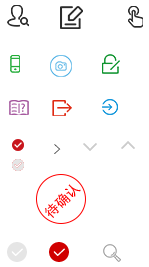
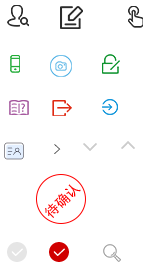
样式问题修改

Changed region(s): [[0.0268, 0.5094, 0.1611, 0.6592]]

diff --git a/public/themes/simpleboot3/user/paper/send.html b/public/themes/simpleboot3/user/paper/send.html
@@ -18,12 +18,12 @@
                 </li>
                 <li class="box-li padding-all">
                     <div class='box-tit'>年化率</div>
-                    <div class='box-con'><span class='drop_down_btn' id='drop_down_btn1'>0%</span>    <input type="hidden" name='annual_rate' value='0%'></div>
+                    <div class='box-con'><span class='drop_down_btn' id='drop_down_btn1'>0%</span> <input type="hidden" name='annual_rate' value='0%'></div>
                 </li>
                 
                 <li class="box-li padding-all">
                     <div class='box-tit'>借款用途：</div>
-                    <div class='box-con'><span class='drop_down_btn' id='drop_down_btn2'>借款用途</span> <input type="hidden" name='usage_loan' value='借款用途'></div>
+                    <div class='box-con'><span class='drop_down_btn' id='drop_down_btn2'>买房</span> <input type="hidden" name='usage_loan' value='借款用途'></div>
                 </li>
                 <li class="box-li padding-all box-li-long">
                     <div class='box-tit'>身份证号(<eq name="send_type" value="1">借款人<else/>出借人</eq>)：</div>
@@ -67,7 +67,7 @@
          <div class="drop_down drop_down2" style="display:none;">
             <p class='drop_down_head'>借款用途 <a class='confirm-btn red'>确定</a></p>
             <div class="drop_down_list">
-                <p class='fixed_li'>借款用途</p>
+                <p class='fixed_li'>买房</p>
                 <ul>
                  <foreach name="$Think.config.use" item="vo">
                     <li>{$vo}</li> 
@@ -100,24 +100,17 @@
         }       
         // 日期插件
         $(function(){
-            
             laydate.render({
                 elem: '#date2',
                 value: GetDateStr(1),
                 istoday: false,
                 min: +1
             });
-         })
+        })
  
-     
-		 //   年利率，借款用途出现的下拉框
-        $('.drop_down_list li').click(function(){
-
-            $('.fixed_li').html($(this).html())
-        }) 
         
-         $('.drop_down_btn').click(function(){
-              var showClass=$(this).attr('id').split('_btn')[0]+$(this).attr('id').split('_btn')[1];
+        $('.drop_down_btn').click(function(){
+            var showClass=$(this).attr('id').split('_btn')[0]+$(this).attr('id').split('_btn')[1];
 
             var showId=$(this).attr('id');
 
@@ -126,16 +119,22 @@
             $('.'+showClass).show();
 
             var _self=$(this);
- 
-            $('.'+showClass).find('.confirm-btn').click(function(){
 
-                var fixed_li=$('.fixed_li').html();  
+            $('.'+ showClass).find('li').click(function(){
+               
+                $('.'+ showClass).find('.fixed_li').html($(this).html())
+            })
+
+            $('.'+ showClass).find('.confirm-btn').click(function(){
+
+                var fixed_li= $('.'+ showClass).find('.fixed_li').html();  
                 $('#'+showId).html(fixed_li); 
                 $('#'+showId).siblings('input[type="hidden"]').val(fixed_li);
 
                 $(this).parents('.drop_down').hide();
             })
-         });
+        });
+
         // 阅读选中
         $('.checkbox-label').click(function(){
           $('#checkbox-label').click();

diff --git a/public/themes/simpleboot3/user/paper/confirm.html b/public/themes/simpleboot3/user/paper/confirm.html
@@ -1,7 +1,7 @@
 <include file="public@head" />
 </head>
 <body>
-    <section class='main'>
+  
         <form action="" id='loan_detail'>
             <ul class='box form-box box-right'>
                 <li class="box-li padding-all">
@@ -29,12 +29,12 @@
                 </li>
                 <li class="box-li padding-all">
                     <div class='box-tit'>年转化率</div>
-                    <div class='box-con'><span class='drop_down_btn'>{$info_paper.rate}%</span> </div>
+                    <div class='box-con'><span class='drop_down_btn annual_rate '>{$info_paper.rate}%</span> </div>
                 </li>
                 
                 <li class="box-li padding-all">
                     <div class='box-tit'>借款用途：</div>
-                    <div class='box-con'><span class='drop_down_btn'>{$info_paper.use}</span>  </div>
+                    <div class='box-con'><span class='drop_down_btn usage_loan'>{$info_paper.use}</span>  </div>
                 </li>
                 <li class="box-li padding-all box-li-long">
                     <div class='box-tit'>借条状态：</div>
@@ -47,11 +47,7 @@
                 
                 <li class="box-li padding-all box-li-long">
                     <div class='box-tit gray'>申请人：</div>
-               		<div class='box-con'><input type="text" value="<eq name='info_reply.is_borrower' value='1'>
-                           		{$info_paper.borrower_name} 
-                           	<else/>
-                           	 	{$info_paper.lender_name} 
-                           	</eq>"  readonly></div>
+               		<div class='box-con'><input type="text" value="<eq name='info_reply.is_borrower' value='1'>{$info_paper.borrower_name}<else/>{$info_paper.lender_name}</eq>"  readonly></div>
                 </li>
                 <li class="box-li padding-all box-li-long">
                     <div class='box-tit gray'>申请时间：</div>
@@ -162,8 +158,6 @@
                 <li><a href="javascript:void(0);" class='blue-text sure-btn-2'>确定</a></li>
             </ul>
         </div> 
- 
-    </section>
 
    <include file="public@foot" />    
     <script>
@@ -208,6 +202,7 @@
                 	 
                 }
             });
+            return false;
         });
 
      </script>

diff --git a/public/themes/simpleboot3/user/paper/search.html b/public/themes/simpleboot3/user/paper/search.html
@@ -16,7 +16,46 @@
                 <button type="submit" onClick="return formIdentity(this.form);"/>查询</button>
             </div>
         </form>
-     
+     <notempty name="search">
+        <div class="jiekuan_history">
+            <p class='btn-red btn-big'>借款历史</p>
+            <ul class='history-list'>
+                <li>
+                    <span class='list1'>出借人</span>
+                    <span class='list2'>金额</span>
+                    <span class='list3'>借款时间</span>
+                    <span class='list4'>还款时间</span>
+                    <span class='list5'>状态</span>
+                </li>
+             <foreach name="list1" item="vo">
+                <li>
+                    <span class='list1'>{$vo.lender_name}</span>
+                    <span class='list2'>￥{$vo.money}</span>
+                    <span class='list3'>{$vo.start_time|date='Y-m-d',###}</span>
+                    <span class='list4'>{$vo.end_time|date='Y-m-d',###}</span>
+                    <span class='list5'>
+                    {$paper_status[$vo.status]} 
+                   <switch name="vo.status">
+                   		<case value="3">|还剩{$vo.expire_day}天</case>
+                   		<case value="5">|已逾期{$vo.overdue_day}天</case>
+                   </switch>
+                    </span>
+                </li>
+              </foreach>  
+              <foreach name="list2" item="vo">
+                <li>
+                    <span class='list1'>{$vo.lender_name}</span>
+                    <span class='list2'>￥{$vo.money}</span>
+                    <span class='list3'>{$vo.start_time|date='Y-m-d',###}</span>
+                    <span class='list4'>{$vo.end_time|date='Y-m-d',###}</span>
+                    <span class='list5'>
+                    	 已还款|<eq name="vo.overdue_day" value="0">未逾期<else/>逾期{$vo.overdue_day}天</eq>
+                    </span>
+                </li>
+              </foreach>  
+            </ul>
+        </div> 
+      </notempty> 
      </div>
   <include file="public@user_foot"  /> 
     <script>

diff --git a/public/themes/simpleboot3/public/assets/css/style.css b/public/themes/simpleboot3/public/assets/css/style.css
@@ -171,10 +171,14 @@
     background-repeat:no-repeat;
     display:inline-block;
     vertical-align:middle;
+    
 }
 .icon-mess{
     width:28px;
     height:28px;
+}
+.icon.icon-mess0{
+    background-position:2px -138px;
 }
 .icon.icon-mess1{
     background-position:1px -51px;
@@ -308,7 +312,11 @@
 /* 使用手册 */
 .guide_tit{
     position:relative;
-    background-color:#e5e5e5;
+    background-color:#fff;
+    
+}
+.auto .guide_tit{
+    background-color:#efefef;
 }
 .guide li.auto{
     height:auto;
@@ -324,9 +332,19 @@
     position:absolute;
     right:0;
     top:5px;
+    transition:all .4s ease-in-out;
 }
+
+.auto .guide_tit .icon{
+    transform-style:preserve-3d;
+    transform:translateY(-50%) rotate(-90deg);
+    -webkit-transform-origin:23px 23px;
+    transform-origin:23px 23px;
+   
+}
+
 .guide_con {
-    transition:all .2s;
+    /* transition:all .4s ease-in-out; */
 }
 .guide_con  p{
     line-height:1.8;
@@ -350,13 +368,14 @@
     width:15rem;
     max-width:400px;
     border:1px solid #ddd;
-    padding:.6rem;
+    padding-top:.6rem;
 }
 .pop_up p{
     display:block;
     margin:7px 0;
     text-align:center;
     line-height:1.6;
+    
 }
 .pop_up_ul{
     padding-top:.8rem;
@@ -373,6 +392,7 @@
 /* 弹出框 */
 .pop_up_inputs .promit-p {
     position:relative;
+    padding:0 .5rem;
 }
 .promit-p{
     font-size:13px;
@@ -407,7 +427,7 @@
 
 .pop_up_inputs b{
     position: absolute;
-    right: 7px;
+    right: 14px;
     top: 5px;
 }
 /* 修改头像 */
@@ -448,6 +468,16 @@
 /* 补借条 */
 .box-li-long .box-tit{
     width:8rem;
+}
+.box-li-to-long .box-tit{
+    width:16rem;
+}
+.box-li-to-long .box-con{
+    width:-webkit-calc(100% - 16rem);
+    width:-moz-calc(100% - 16rem);
+    width:-ms-calc(100% - 16rem);
+    width:-o-calc(100% - 16rem);
+    width:calc(100% - 16rem);
 }
 .box-li-long .box-con{
     width:-webkit-calc(100% - 8rem);

diff --git a/public/themes/simpleboot3/user/info/guide.html b/public/themes/simpleboot3/user/info/guide.html
@@ -18,16 +18,18 @@
         </ul>
           <include file="public@user_foot" />       
 <script>
-    $('.guide_btn').click(function(){
-        if($(this).hasClass('icon-mess7')){
-            $(this).parents('.guide_tit ').siblings('.guide_con ').show();
-            $(this).parents('li ').addClass('auto');
-            $(this).removeClass('icon-mess7').addClass('icon-mess8')
-        }else{
-            $(this).removeClass('icon-mess8').addClass('icon-mess7');
-            $(this).parents('.guide_tit ').siblings('.guide_con ').hide();
+    $('.guide_tit').click(function(){
+        if($(this).parents('li').hasClass('auto')){
+           
             $(this).parents('li ').removeClass('auto');
+             $(this).siblings('.guide_con ').hide(600);
+        }else{
+            $('.auto').removeClass('auto');
+            $('.guide_con ').show(600);
+            $(this).parents('li ').addClass('auto');
+            $(this).siblings('.guide_con ').show(600);
         }
+    
     })
 </script>
  

diff --git a/public/themes/simpleboot3/public/user_foot.html b/public/themes/simpleboot3/public/user_foot.html
@@ -13,7 +13,7 @@
                 <dd>补借条</dd>
               
             </a>
-            <div class="show_posi">
+            <div class="show_posi" style='display:none;'>
                 <a href="{:url('user/paper/send',['send_type'=>0])}">我是借款人</a>
                 <a href="{:url('user/paper/send',['send_type'=>1])}">我是出款人</a>
                 <b></b>
@@ -31,15 +31,7 @@
     <script src="__TMPL__/public/assets/js/dropscroll.js"></script> 
     <script>
         hasnav();
-        function hasnav(){
-            var navHei=$('.nav-fixed').height();
-            var docHei= $(window).height();
-            var perHeadHei=$('.person_head').height();
-            var dkHei=$('.daihuai').height();
-            var conHei=$('.content_nav').height();
-
-            $('.content_div').height(docHei - navHei - perHeadHei - dkHei -conHei );
-        }
+   
         
        
     </script>

diff --git a/public/themes/simpleboot3/user/info/paper.html b/public/themes/simpleboot3/user/info/paper.html
@@ -44,11 +44,11 @@
                         <div class='box-tit'>借条状态：</div>
                         <div class='box-con'><input type="text" name='identity_name' value='{$paper.status_name}' class='red' readonly></div>
                     </li>
-                    <li class="box-li padding-all box-li-long">
+                    <li class="box-li padding-all">
                         <div class='box-tit '>相关申请<empty name="replys">-无</empty></div>
                     </li>
            <foreach name="replys" item="vo">
-            		<li class="box-li padding-all box-li-long">
+            		<li class="box-li padding-all box-li-long  box-li-to-long">
                         <div class='box-tit gray'>
                         	{$reply_types[$vo.type]}
                         	（{$reply_status[$vo.status]}

diff --git a/public/themes/simpleboot3/user/info/avatar.html b/public/themes/simpleboot3/user/info/avatar.html
@@ -12,7 +12,7 @@
                         <div id="photo">
                                <img src="{:cmf_get_image_url('')}/{$user.avatar|default='self.jpg'}" alt="头像">
                         </div>
-                         <input type="text" name="ff" value='上传头像' >
+                         <input type="text" name="ff" value='' >
                         <label for="img" class='label-img'>
                             <input type="file" name="avatar" value='上传头像' id='img' accept="image/*">
                             <span>上传头像</span>
@@ -35,6 +35,7 @@
     
    <include file="public@user_foot"/> 
     <script>
+     
        
          $('#img').change(function() {
              var file = this.files[0];

diff --git a/public/themes/simpleboot3/user/register/register.html b/public/themes/simpleboot3/user/register/register.html
@@ -29,7 +29,7 @@
                     <div class='box-tit'>手机号：</div>
                     <div class='box-con'><input type="text" name='tel' placeholder='请输入正确手机号' required></div>
                 </li>
-                <p class='tip box-p'>根据国家规定，为了您的信息安全，请填写实名信息</p>
+                <p class='tip '>根据国家规定，为了您的信息安全，请填写实名信息</p>
                 <p class='error-tip box-p red'></p>
             </ul>
             

diff --git a/public/themes/simpleboot3/user/info/index.html b/public/themes/simpleboot3/user/info/index.html
@@ -21,7 +21,7 @@
         <ul class="group-person-mess">
          <li>
                 <a href="{:url('user/info/name')}">
-                    <span class="icon icon-mess icon-mess1"></span>
+                    <span class="icon icon-mess icon-mess0"></span>
                    	实名认证
                     <span class='icon icon-mess icon-mess6'></span>
                 </a>

diff --git a/public/themes/simpleboot3/public/assets/css/common.css b/public/themes/simpleboot3/public/assets/css/common.css
@@ -114,7 +114,7 @@ html,body{overflow-x:hidden;}
 .main{
     width:100%;
 }
-.box-sizing,.main,.cofirm_con li,.loan_mess,.search_div input,.promit-input,.agreements{
+.box-sizing,.main,.cofirm_con li,.loan_mess,.search_div input,.promit-input,.agreements,.pop_up p{
     -webkit-box-sizing:border-box;
     -moz-box-sizing:border-box;
     -ms-box-sizing:border-box;
